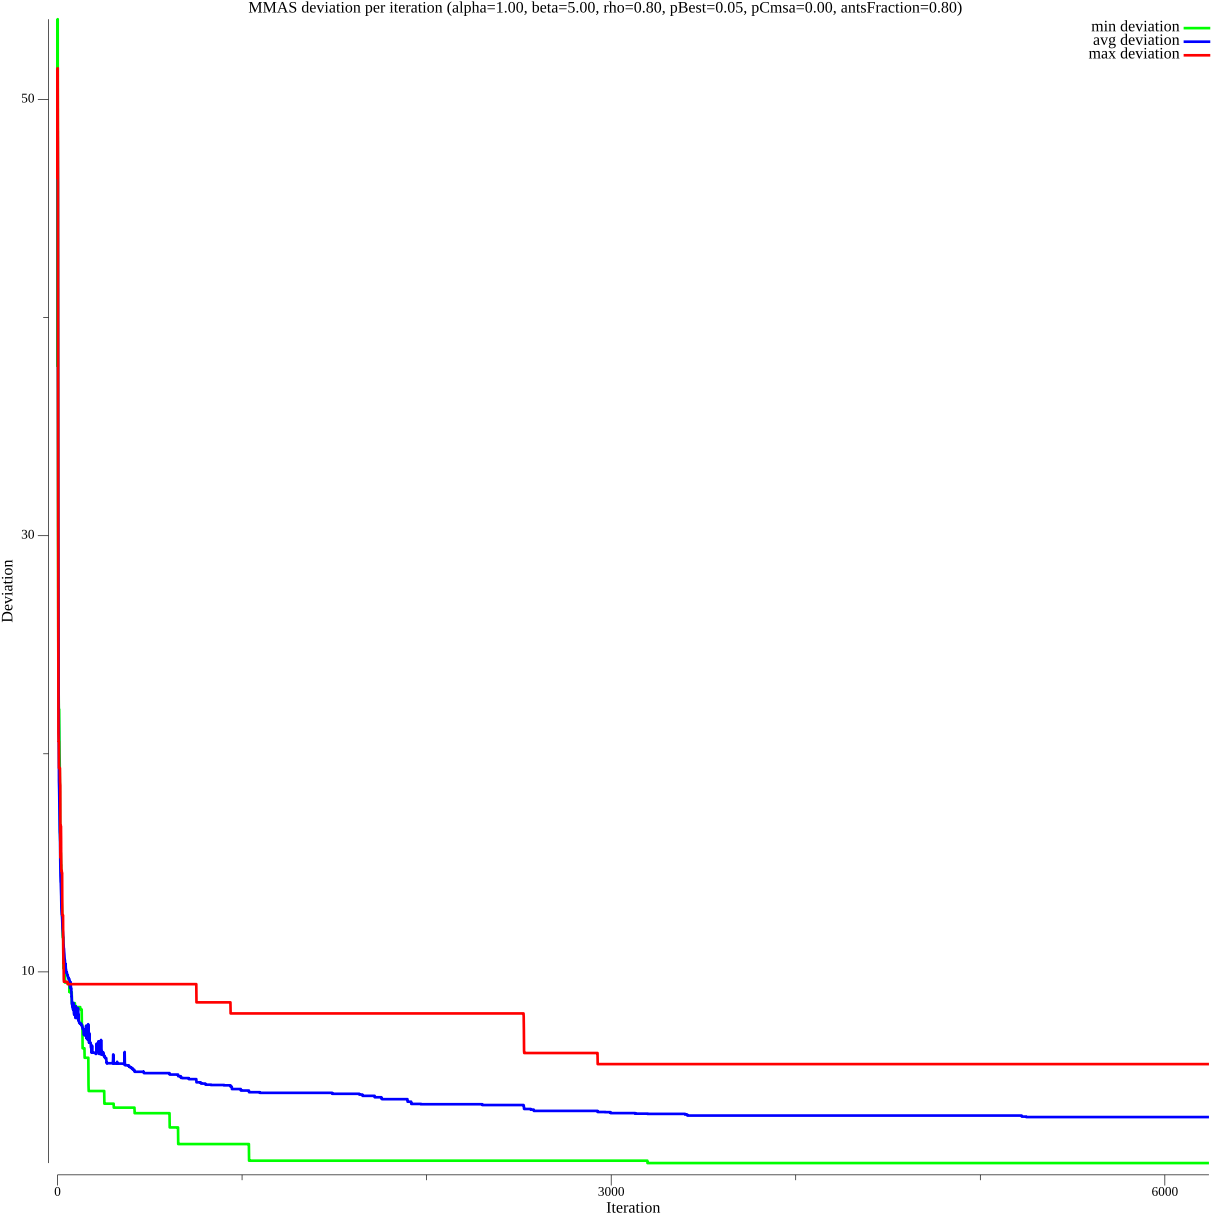
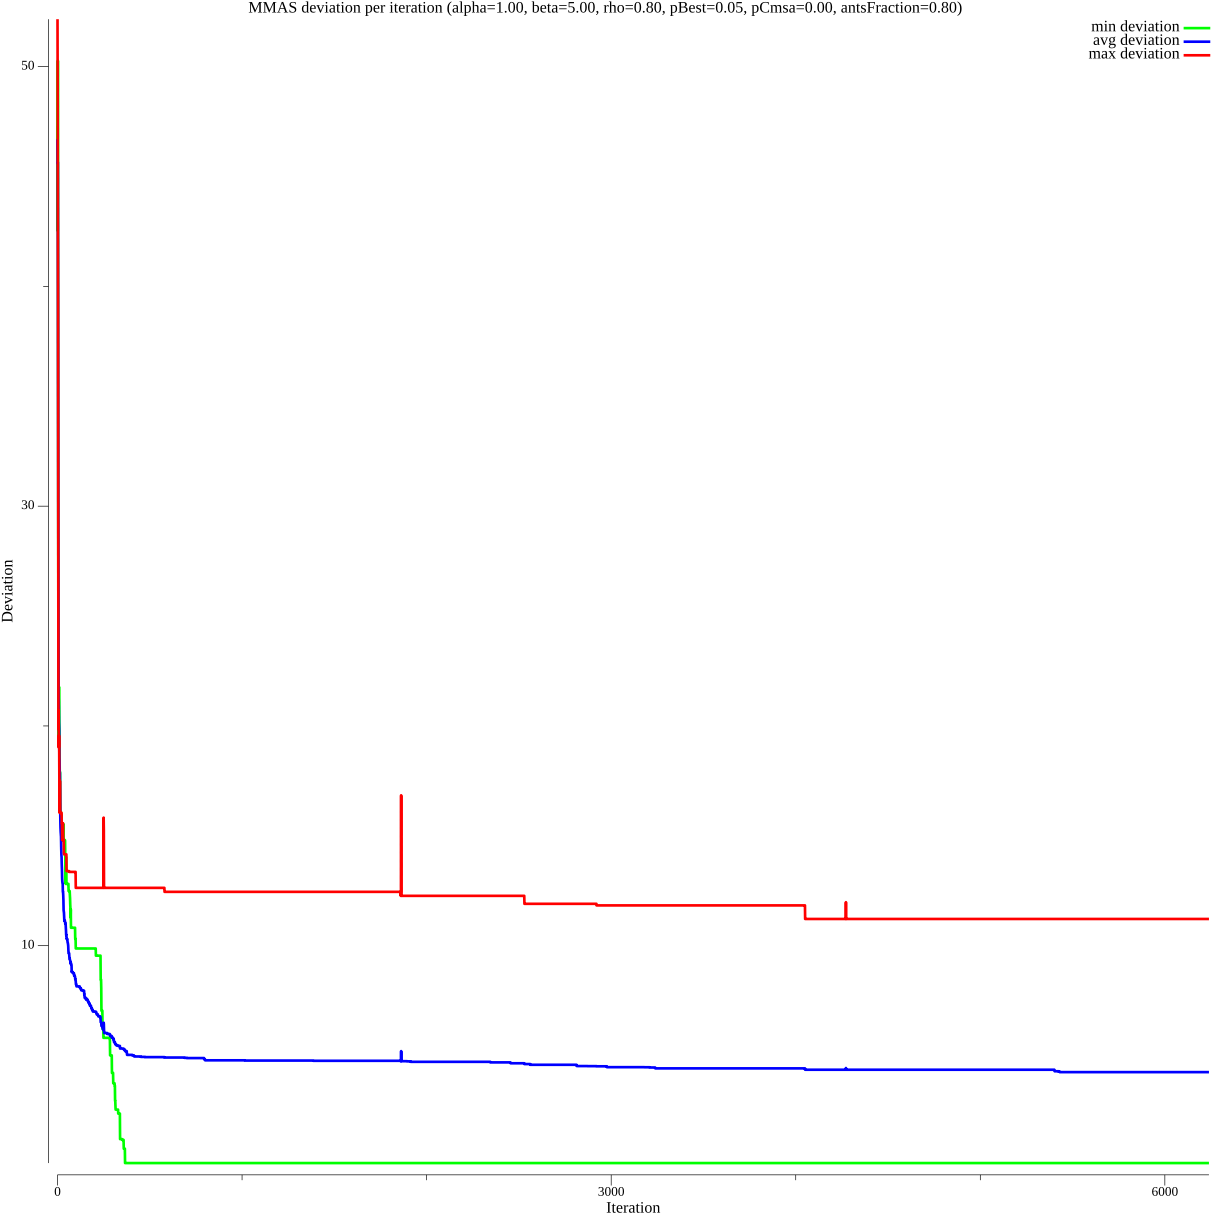
major aco perf improvement

Changed region(s): [[0.0312, 0.6552, 0.9984, 0.9672], [0.6552, 0.7488, 0.9672, 0.78], [0.1872, 0.8112, 0.2184, 0.8424]]

diff --git a/main.go b/main.go
@@ -14,6 +14,7 @@ import (
 	"os"
 	"path"
 	"path/filepath"
+	"runtime/pprof"
 	"sort"
 	"strconv"
 	"strings"
@@ -614,7 +615,7 @@ func setDimensionDependantParameters(dimension int, parameters *ExperimentParame
 func generateParameters() []ExperimentParameters {
 	parameters := make([]ExperimentParameters, 0)
 
-	for _, useLocalSearch := range []bool{false, true} {
+	for _, useLocalSearch := range []bool{false} {
 		for _, alpha := range utilities.GenerateRange(1.0, 1.0, 0.25) {
 			for _, beta := range utilities.GenerateRange(5.0, 5.0, 1.0) {
 				for _, rho := range utilities.GenerateRange(0.8, 0.8, 0.1) {
@@ -690,6 +691,14 @@ func makeAtspData(name string, matrix [][]float64, knownOptimal float64) AtspDat
 }
 
 func main() {
+	cf, cerr := os.Create("cpu.prof")
+	if cerr != nil {
+		fmt.Println(cerr)
+		return
+	}
+	pprof.StartCPUProfile(cf)
+	defer pprof.StopCPUProfile()
+
 	tsplibDir := "tsplib_files"
 	atspFilesPaths, _ := filepath.Glob(filepath.Join(tsplibDir, "*.atsp"))
 
@@ -697,33 +706,33 @@ func main() {
 		atspFilesPaths,
 		func(filePath string) bool {
 			var files = []string{
-				"atex1.atsp",
-				"atex3.atsp",
-				"atex4.atsp",
-				"atex5.atsp",
+				// "atex1.atsp",
+				// "atex3.atsp",
+				// "atex4.atsp",
+				// "atex5.atsp",
 				// "br17.atsp",
-				"code198.atsp",
-				"crane100_0.atsp",
-				"crane100_1.atsp",
-				"crane100_2.atsp",
-				"crane66_0.atsp",
-				"crane66_1.atsp",
-				"crane66_2.atsp",
-				"dc112.atsp",
-				"dc126.atsp",
-				"dc134.atsp",
-				"dc176.atsp",
-				"dc188.atsp",
+				// "code198.atsp",
+				// "crane100_0.atsp",
+				// "crane100_1.atsp",
+				// "crane100_2.atsp",
+				// "crane66_0.atsp",
+				// "crane66_1.atsp",
+				// "crane66_2.atsp",
+				//     "dc112.atsp",
+				// "dc126.atsp",
+				// "dc134.atsp",
+				// "dc176.atsp",
+				// "dc188.atsp",
 				// "ft53.atsp",
 				// "ft70.atsp",
-				"ftv100.atsp",
-				"ftv110.atsp",
-				"ftv120.atsp",
-				"ftv130.atsp",
-				"ftv140.atsp",
-				"ftv150.atsp",
-				"ftv160.atsp",
-				// "ftv170.atsp",
+				// "ftv100.atsp",
+				// "ftv110.atsp",
+				// "ftv120.atsp",
+				// "ftv130.atsp",
+				// "ftv140.atsp",
+				// "ftv150.atsp",
+				// "ftv160.atsp",
+				"ftv170.atsp",
 				// "ftv33.atsp",
 				// "ftv35.atsp",
 				// "ftv38.atsp",
@@ -732,14 +741,14 @@ func main() {
 				// "ftv55.atsp",
 				// "ftv64.atsp",
 				// "ftv70.atsp",
-				"ftv90.atsp",
+				// "ftv90.atsp",
 				// "p43.atsp",
 				// "rbg323.atsp",
 				// "rbg358.atsp",
 				// "rbg403.atsp",
 				// "rbg443.atsp",
 				// "ry48p.atsp",
-				"td100_1.atsp",
+				// "td100_1.atsp",
 			}
 
 			inputFileName := path.Base(filePath)

diff --git a/modules/algorithms/aco/aco.go b/modules/algorithms/aco/aco.go
@@ -5,7 +5,8 @@ import (
 	"atsp_aco_msa/modules/algorithms/threeOpt"
 	"atsp_aco_msa/modules/utilities"
 	"math"
-	"math/rand"
+
+	"pgregory.net/rand"
 )
 
 type ACO struct {
@@ -173,41 +174,52 @@ func (aco *ACO) constructTour(tour []int, canVisitBits []float64, probabilities 
 
 // Function to select the next city for an ant
 func (aco *ACO) selectNextCity(current int, canVisitBits []float64, probabilities []float64) int {
-	total := 0.0
-	probabilitiesToUse := aco.probabilities[current]
 
 	q := rand.Float64()
-
+	probabilitiesToUse := aco.probabilities[current]
 	// Use CMSA logic to bias towards hopefully better tours. Other tours will also take part in roulette-wheel selection.
 	adaptiveCmsaProbability := aco.pCmsa * (1.0 - float64(aco.currentIteration)/float64(aco.iterations))
 	if q < adaptiveCmsaProbability {
 		probabilitiesToUse = aco.cmsaProbabilities[current]
 	}
 
+	total := 0.0
+	cumulativeProbability := 0.0
+	nextCity := -1
 	for _, i := range aco.neighborsLists[current] {
 		probabilities[i] = canVisitBits[i] * probabilitiesToUse[i]
 
 		total += probabilities[i]
 	}
 
+	threshold := q * total
+
 	// Check if total is zero (no valid neighbors left), then fallback to all remaining nodes
-	if total == 0.0 {
+	if total != 0.0 {
+		for _, i := range aco.neighborsLists[current] {
+			cumulativeProbability += probabilities[i]
+			if threshold < cumulativeProbability && nextCity == -1 {
+				nextCity = i
+			}
+
+			probabilities[i] = 0.0
+		}
+	} else {
 		for i := 0; i < aco.dimension; i++ {
 			probabilities[i] = canVisitBits[i] * probabilitiesToUse[i]
 
 			total += probabilities[i]
 		}
-	}
 
-	// Roulette-wheel selection
-	cumulativeProbability := 0.0
-	nextCity := -1
-	for i := 0; i < aco.dimension; i++ {
-		cumulativeProbability += probabilities[i] / total
-		probabilities[i] = 0.0
+		threshold = q * total
 
-		if q < cumulativeProbability && nextCity == -1 {
-			nextCity = i
+		for i := 0; i < aco.dimension; i++ {
+			cumulativeProbability += probabilities[i]
+			if threshold < cumulativeProbability && nextCity == -1 {
+				nextCity = i
+			}
+
+			probabilities[i] = 0.0
 		}
 	}
 

diff --git a/results/best_parameters_report.md b/results/best_parameters_report.md
@@ -6,11 +6,11 @@ Found **5** best unique parameter combinations.
 
 | Alpha | Beta | Rho | pBest | pCmsa | AntsPercentage |
 |-------|------|-----|-------|-------|----------------|
+| 1.00 | 5.00 | 0.80 | 0.05 | 0.50 | 0.80 |
+| 1.00 | 5.00 | 0.80 | 0.05 | 0.25 | 0.80 |
 | 1.00 | 5.00 | 0.80 | 0.05 | 0.00 | 0.80 |
 | 1.00 | 5.00 | 0.80 | 0.05 | 1.00 | 0.80 |
 | 1.00 | 5.00 | 0.80 | 0.05 | 0.75 | 0.80 |
-| 1.00 | 5.00 | 0.80 | 0.05 | 0.50 | 0.80 |
-| 1.00 | 5.00 | 0.80 | 0.05 | 0.25 | 0.80 |
 
 ## Parameter Values Occurrences
 

diff --git a/results/best_overall_parameters_report.md b/results/best_overall_parameters_report.md
@@ -6,11 +6,11 @@ Found **5** best unique parameter combinations.
 
 | Alpha | Beta | Rho | pBest | pCmsa | AntsPercentage |
 |-------|------|-----|-------|-------|----------------|
-| 1.00 | 5.00 | 0.80 | 0.05 | 0.25 | 0.80 |
 | 1.00 | 5.00 | 0.80 | 0.05 | 0.50 | 0.80 |
 | 1.00 | 5.00 | 0.80 | 0.05 | 0.75 | 0.80 |
 | 1.00 | 5.00 | 0.80 | 0.05 | 1.00 | 0.80 |
 | 1.00 | 5.00 | 0.80 | 0.05 | 0.00 | 0.80 |
+| 1.00 | 5.00 | 0.80 | 0.05 | 0.25 | 0.80 |
 
 ## Parameter Values Occurrences
 
